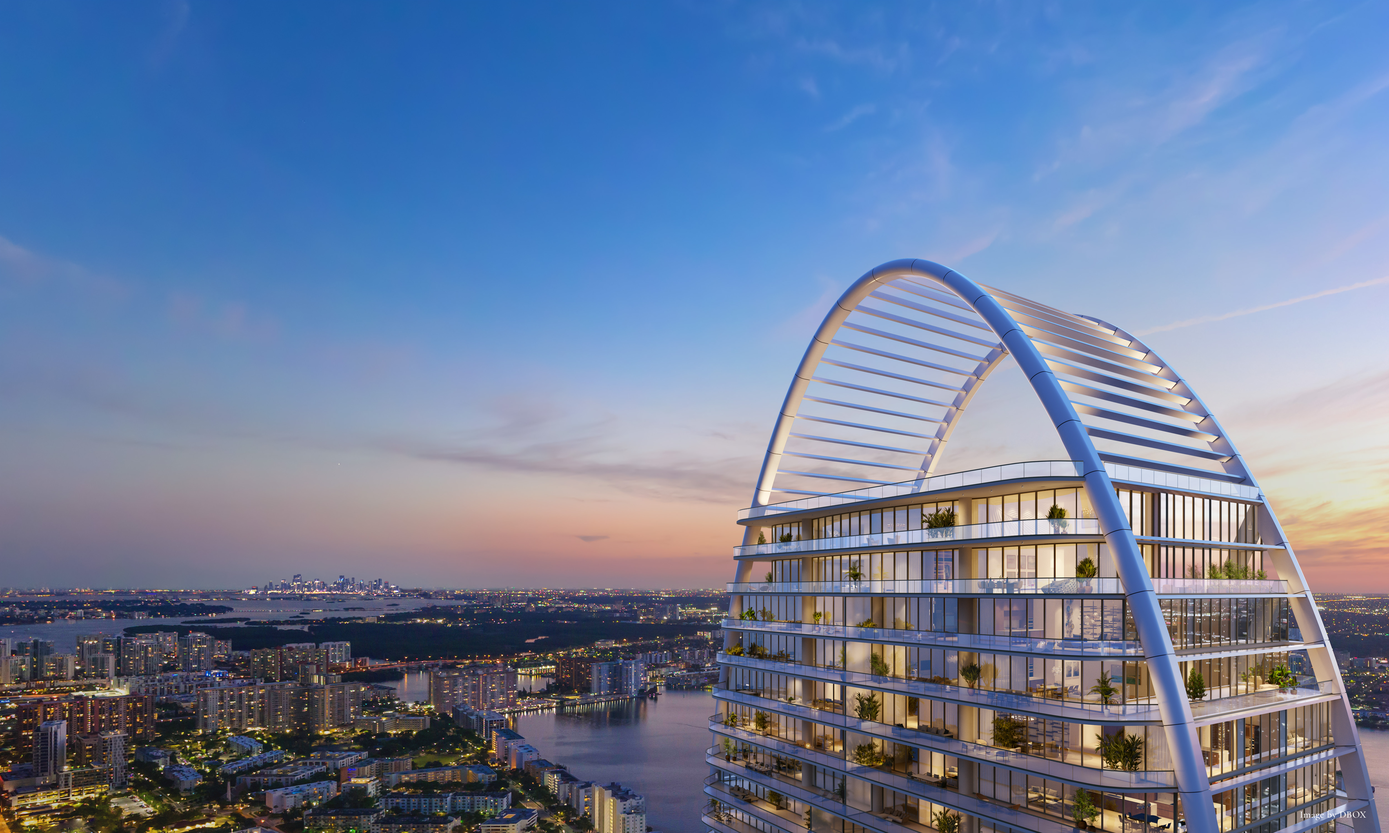
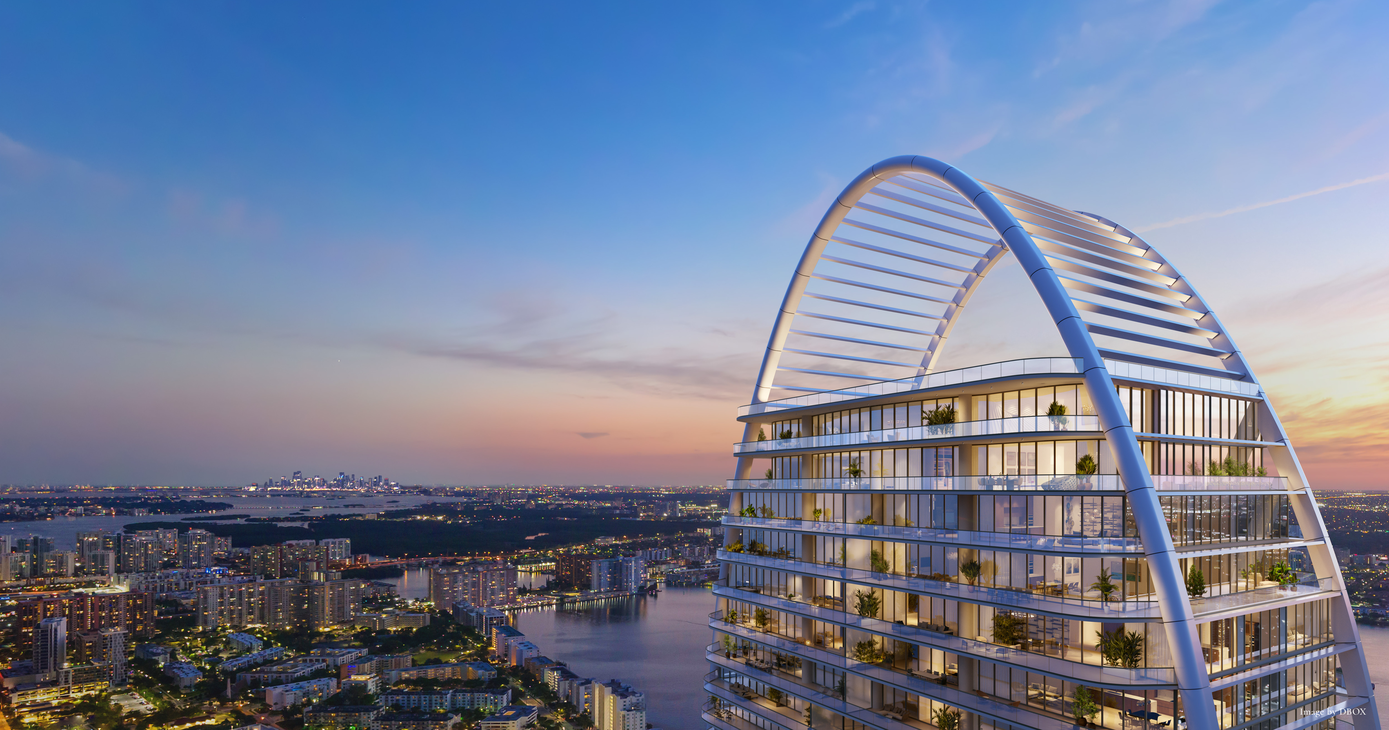
transition

diff --git a/Page-2.css b/Page-2.css
@@ -22,7 +22,7 @@ body {
  .u-section-1 {
   background-image: linear-gradient(0deg, rgba(51,51,41,0.45), rgba(51,51,41,0.45)), url("images/Dusk.jpg");
   background-position: 50% top 100%;
-  transition: ease-in-out;
+  transition: opacity 0.5s linear 2s;
 }
 
 .u-section-1 .u-sheet-1 {
@@ -32,7 +32,8 @@ body {
 .u-section-1 .u-group-1 {
   width: 719px;
   min-height: 333px;
-  height: auto;
+  /* change the height of the first page */
+  height: auto; 
   margin: 192px auto;
 }
 
